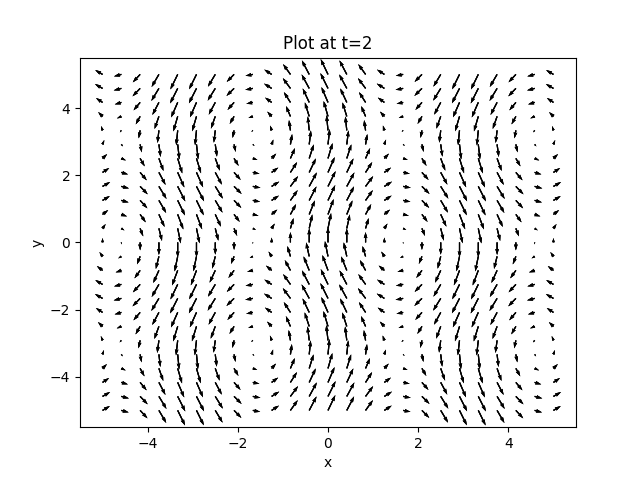
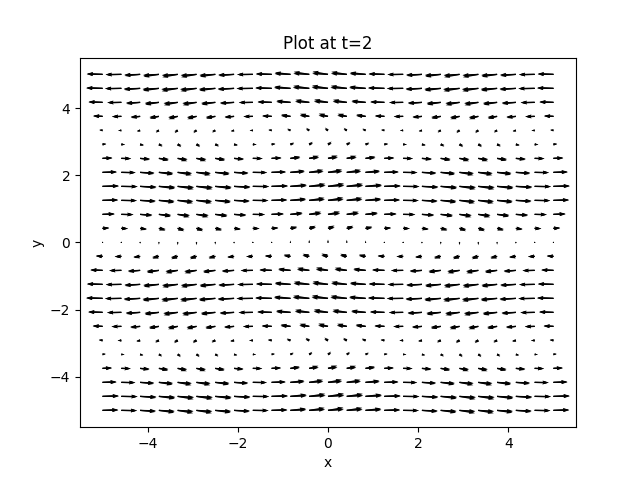
added gif and animation

Changed region(s): [[0.125, 0.125, 0.875, 0.875]]

diff --git a/Navier-Stokes.py b/Navier-Stokes.py
@@ -1,16 +1,20 @@
 from scipy.integrate import odeint # type: ignore
 import matplotlib.pyplot as plt # type: ignore
+from matplotlib.animation import FuncAnimation, PillowWriter # type: ignore
 import numpy as np # type: ignore
 import os
 
 x = np.linspace(-5, 5, 25)
 y = np.linspace(-5, 5, 25)
-t = np.linspace(0, 100, 10)
+t = np.linspace(0, 25, 20)
 
-X, Y, T = np.meshgrid(x, y, t)
+X, Y, T = np.meshgrid(x, y, t, indexing='ij')
 
 U = np.sin(Y) * T
 V = np.cos(X) * 2 * T
+
+U = np.where((U == 0) & (V == 0), 1e-12, U)
+V = np.where((U == 0) & (V == 0), 1e-12, V)
 
 dx = x[1] - x[0]
 dy = y[1] - y[0]
@@ -27,7 +31,7 @@ conv_v = U * dudx * dudy
 DuDt = dudt + conv_u
 DvDt = dvdt + conv_v
 
-for time in range(0, 10):
+"""for time in range(0, 10):
 
     plt.quiver(X[:, :, time], Y[:, :, time], DuDt[:, :, time], DvDt[:, :, time])
 
@@ -35,3 +39,19 @@ for time in range(0, 10):
     plt.ylabel('y')
     plt.title(f'Plot at t={time}')
     plt.savefig(os.path.join('images', f't{time}.png'))
+
+"""
+
+fig, ax = plt.subplots()
+quiv = ax.quiver(X[:, :, 0], Y[:, :, 0], DuDt[:, :, 0], DvDt[:, :, 0], angles='xy', scale_units='xy', scale=1e2)
+
+def update(frame):
+
+    quiv.set_UVC(U[:, :, frame], V[:, :, frame])
+    ax.set_title(f"t={t[frame]:.2f}")
+    return quiv,
+
+animation = FuncAnimation(fig, update, frames=len(t), interval=300, blit=True)
+plt.show()
+
+animation.save("sim.gif", writer=PillowWriter(fps=10), dpi=150)
